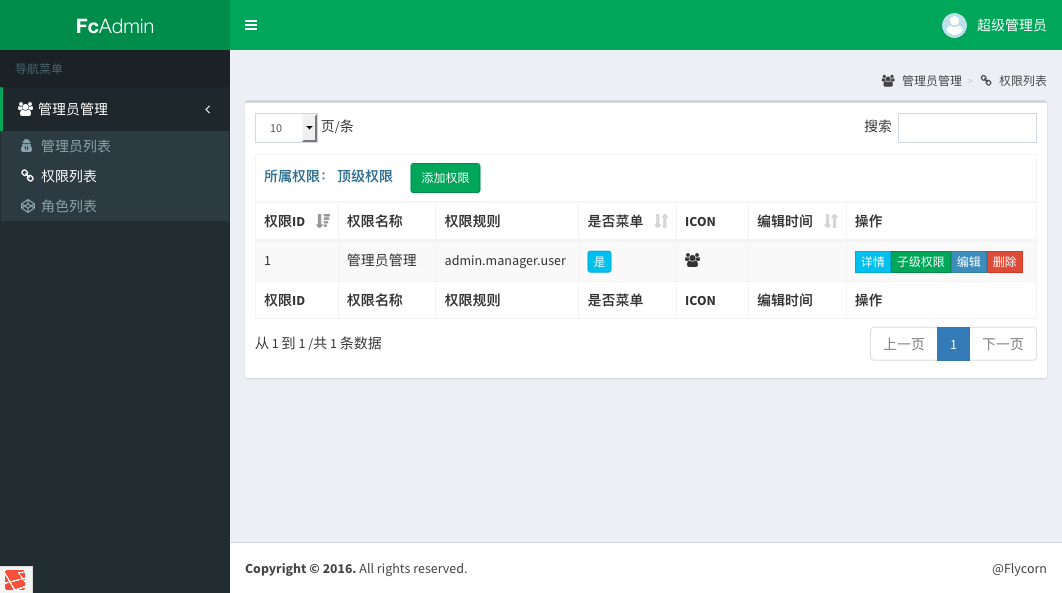
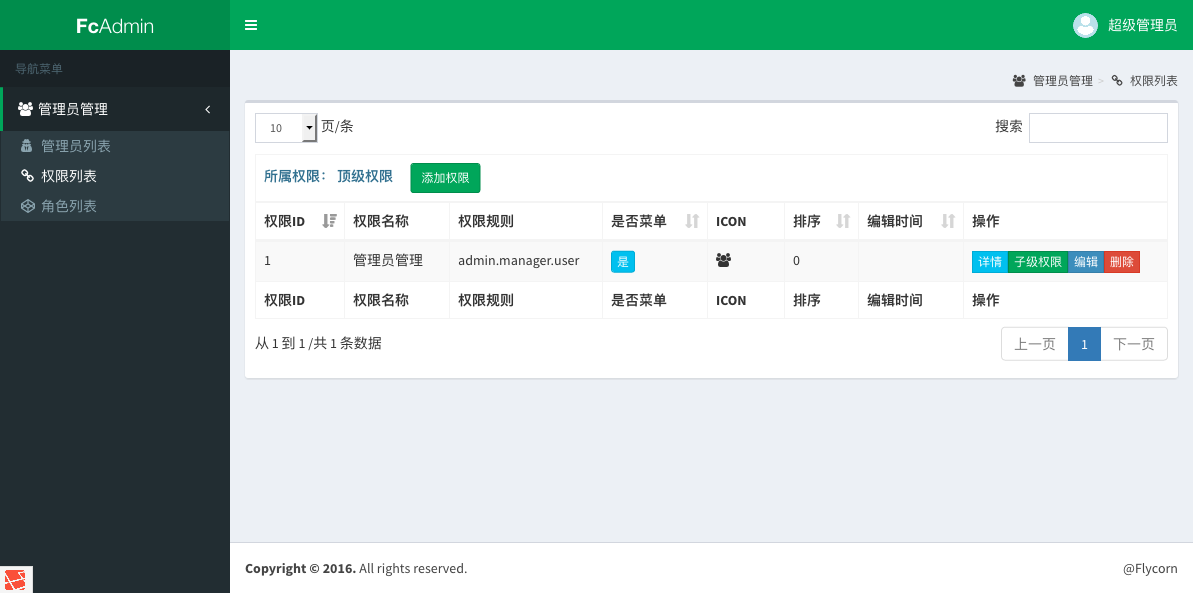
更新

diff --git a/resources/views/admin/permission/index.blade.php b/resources/views/admin/permission/index.blade.php
@@ -41,7 +41,8 @@
         "aaSorting": [
            [0, 'desc'],
            [3],
-           [5]
+           [5],
+           [6]
         ],
         "aoColumns": [
          { "data": "id" },
@@ -49,6 +50,7 @@
          { "data": "name", "bSortable": false },
          { "data": "is_menu" },
          { "data": "icon", "bSortable": false },
+         { "data": "sort" },
          { "data": "updated_at" },
          { "data": "id", "bSortable": false },
         ],
@@ -94,7 +96,7 @@
                         return opt_html;
                     }
                 },
-                "targets": 6
+                "targets": 7
             }
         ],
     });
@@ -141,7 +143,7 @@
    <table id="dataTable" class="table table-bordered table-striped">
     <thead>
     <tr>
-        <th colspan="7">
+        <th colspan="8">
             <span class="btn-flat text-info">所属权限：@if($parent_permission) {{$parent_permission->display_name}} @else 顶级权限 @endif</span>&nbsp;&nbsp;&nbsp;&nbsp;
             @if($admin->auth('admin.permission.create'))
             <a href="{{ url('admin/permission/'.$pid.'/create') }}" class='btn btn-success btn-sm'>添加权限</a>
@@ -155,6 +157,7 @@
      <th>权限规则</th>
      <th>是否菜单</th>
      <th>ICON</th>
+     <th>排序</th>
      <th>编辑时间</th>
      <th>操作</th>
     </tr>
@@ -168,6 +171,7 @@
             <th>权限规则</th>
             <th>是否菜单</th>
             <th>ICON</th>
+            <th>排序</th>
             <th>编辑时间</th>
             <th>操作</th>
         </tr>
